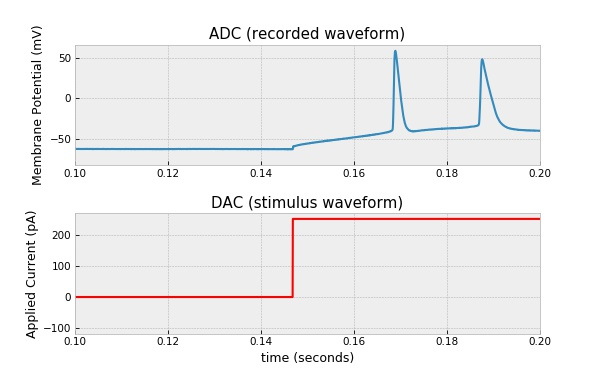
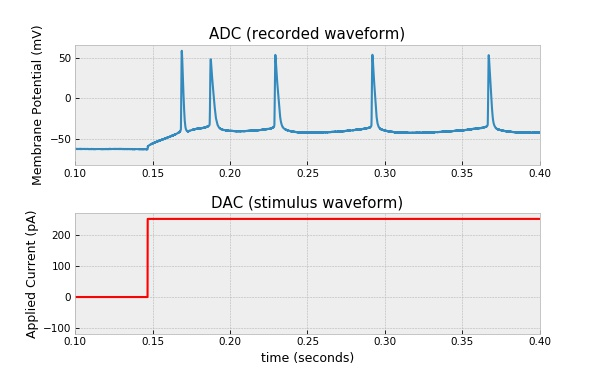
improve zoom

diff --git a/docs/getting-started/generate.py b/docs/getting-started/generate.py
@@ -168,7 +168,7 @@ class Uses:
 
         fig.subplots_adjust(hspace=.4)  # add more space between the subplots
 
-        ax1.axes.set_xlim(0.1, 0.2)  # zoom between 100 and 200 ms
+        ax1.axes.set_xlim(0.1, 0.4)  # zoom between 100 and 200 ms
 
         self.saveAndClose()
 

diff --git a/docs/getting-started/readme.md b/docs/getting-started/readme.md
@@ -170,7 +170,7 @@ ax2.set_ylabel(abf.sweepLabelC)
 
 fig.subplots_adjust(hspace=.4)  # add more space between the subplots
 
-ax1.axes.set_xlim(0.1, 0.2)  # zoom between 100 and 200 ms
+ax1.axes.set_xlim(0.1, 0.4)  # zoom between 100 and 200 ms
 ```
 
 **Output:**
